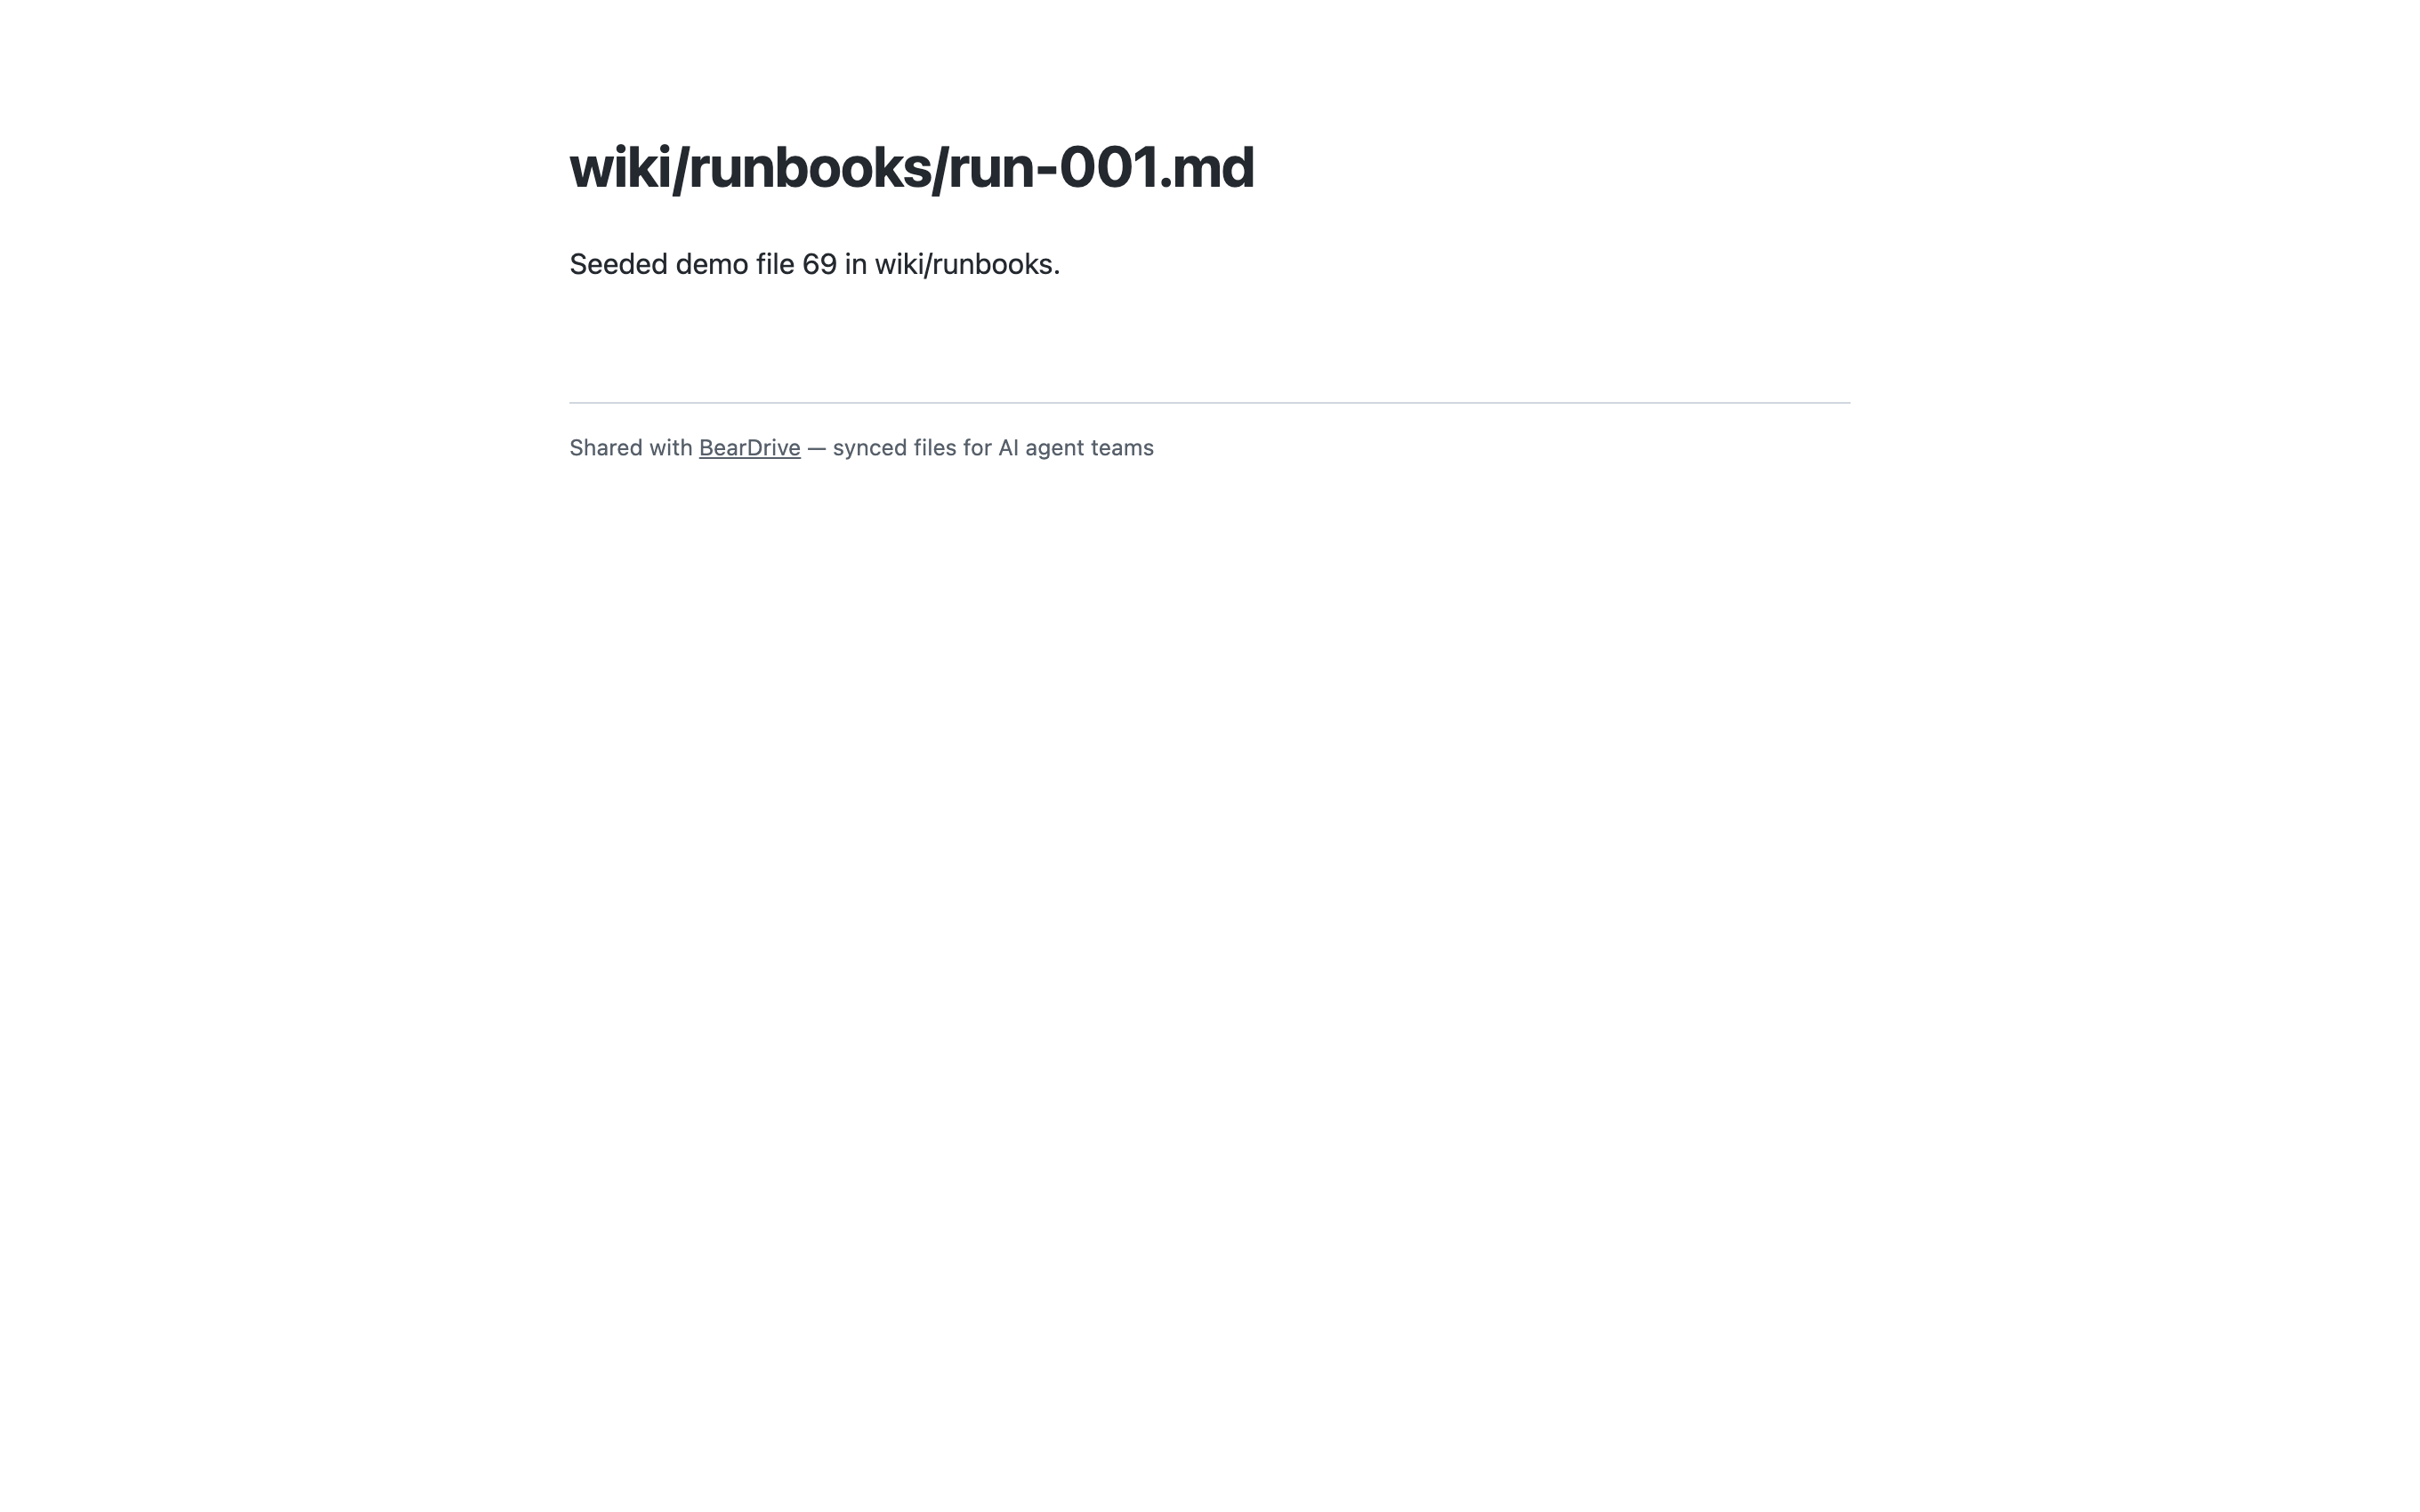
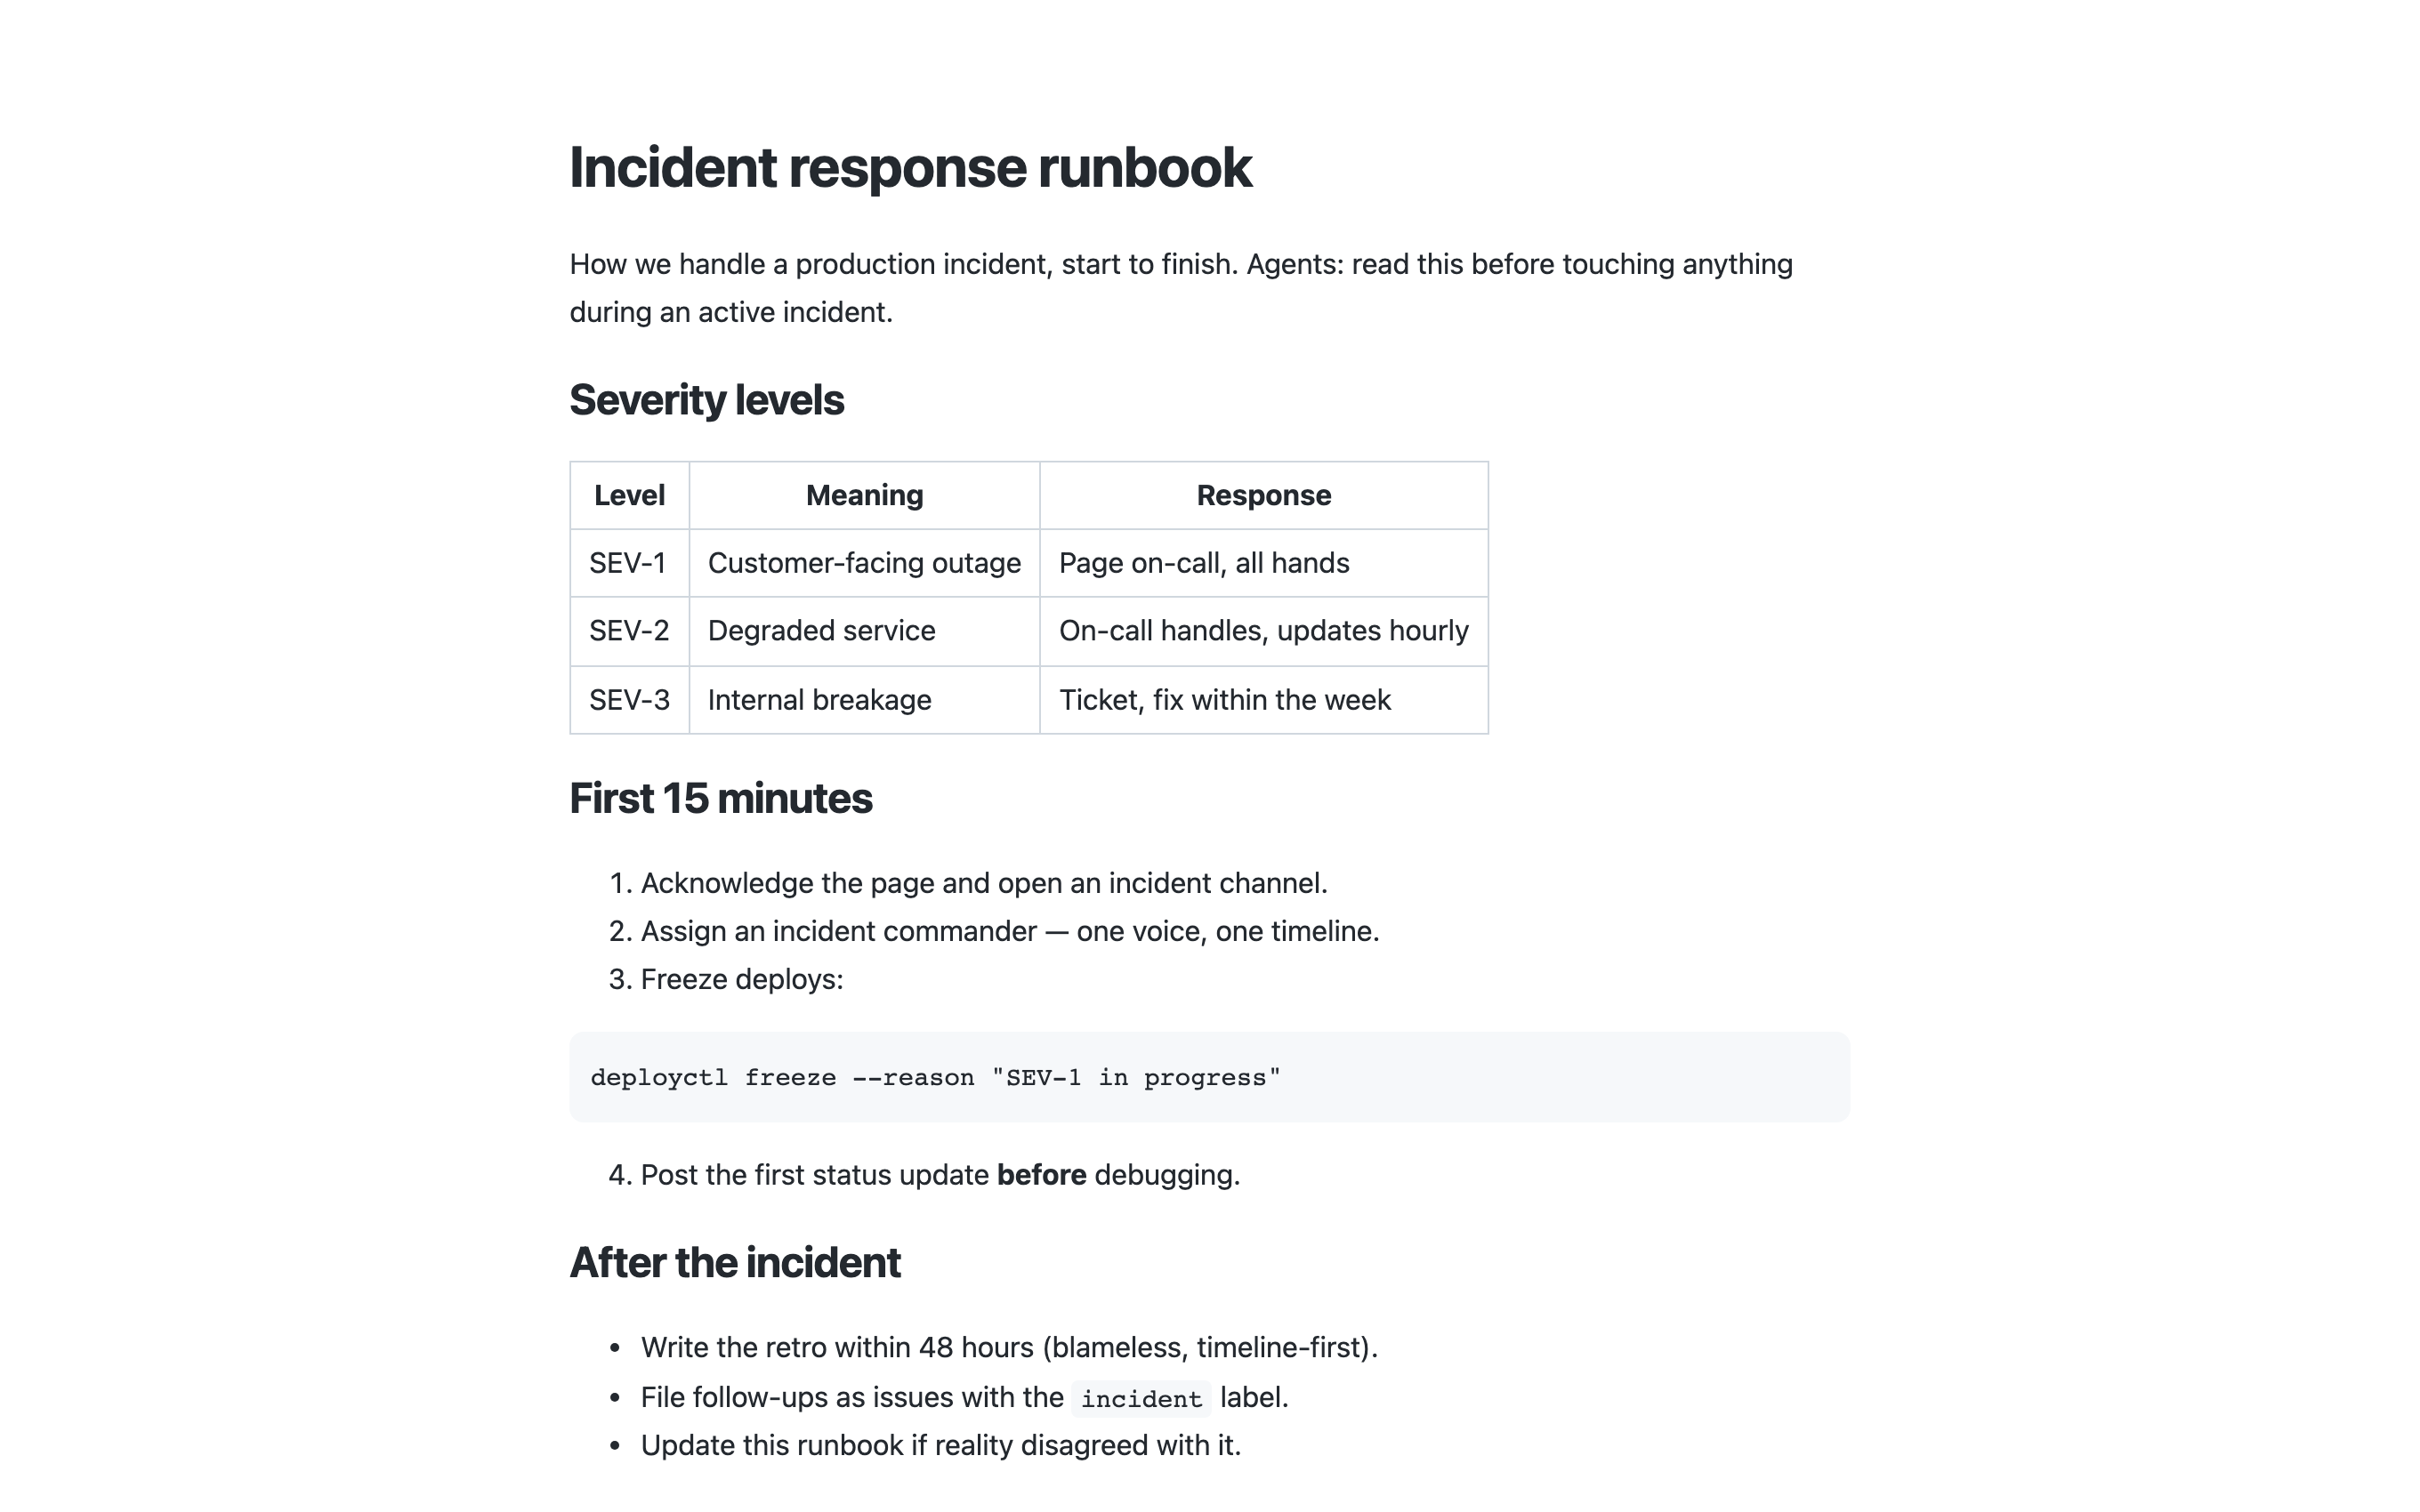
feat(gtm): round 2 — kill the last dead-deployment-mode copy, sharpen assets and checklists
Reviewer round 2 scored 8/7/9/8/8/8 with one repo-fixable major left:
three deeper website spots (storage strip, architecture card, bring-
your-own-storage card) still implied a hub-less direct-to-bucket mode
that v0.3.0 removed — all rewritten to the hub-on-your-storage reality;
themes-preview.html's five retracted 'no server required' strings fixed.

Also: install-path verification added to the handoff P0 and the launch
prep checklist (a 404 brew tap on launch day is fatal); README
credentials table now says the s3/gs/file rows are hub-operator storage,
never client remotes; the agent promise now leads on both README and
website (people-sharing supports it); share.png re-captured against a
real rendered runbook (headings/table/code) instead of a one-line stub.

Claude-Session: https://claude.ai/code/session_01P5cxPQdSGJnjXCYY9GeWXt

diff --git a/website/index.html b/website/index.html
@@ -303,10 +303,10 @@ footer a:hover { color: var(--text); }
     </div>
   </div>
   <div class="strip">
-    <p>Works with the storage you already have</p>
+    <p>Your hub stores on the object storage you already have</p>
     <div class="names">
       <span>Amazon S3</span><span>Google Cloud Storage</span><span>Cloudflare R2</span>
-      <span>MinIO</span><span>any folder</span><span>— or a BearDrive hub</span>
+      <span>MinIO</span><span>any folder</span>
     </div>
   </div>
 </header>
@@ -335,8 +335,8 @@ footer a:hover { color: var(--text); }
         version, no account needed, revocable any time.</p>
       </div>
       <div class="card wide">
-        <div class="arch"><b>your folder</b>  ←scan/materialize→  <b>local volume</b>  ←push/pull→  <span class="a">object storage or a BearDrive hub</span>
-<span class="dim">real files                per-device journals,      devices converge through dumb storage:
+        <div class="arch"><b>your folder</b>  ←scan/materialize→  <b>local volume</b>  ←push/pull→  <span class="a">a BearDrive hub (on S3 / GCS / R2 / a folder)</span>
+<span class="dim">real files                per-device journals,      devices converge through the hub's dumb storage:
 every tool works          content-addressed blobs    append-only, no locks, offline-safe</span></div>
       </div>
     </div>
@@ -348,19 +348,19 @@ every tool works          content-addressed blobs    append-only, no locks, offl
     <p class="kicker">WHY BEARDRIVE</p>
     <h2>Two superpowers, one folder.</h2>
     <div class="grid" style="grid-template-columns:repeat(auto-fit,minmax(340px,1fr))">
-      <div class="card"><div class="ico">🧑🤝🧑</div>
-        <p style="font-size:15px"><b>Share files with people.</b> Anything in the folder is a
-        <code>bdrive share</code> away from being a public URL that renders as a page —
-        markdown, HTML, PDFs. No accounts for viewers, no "can you re-send that?",
-        always the latest version, revocable any time. Dropbox-link simplicity for
-        everything your team produces.</p>
-      </div>
       <div class="card"><div class="ico">🧠</div>
         <p style="font-size:15px"><b>Share context across agents.</b> The folder is shared
         memory. What your agent learns today — findings, plans, decisions, notes —
         is on your teammate's disk in seconds, so <b>their agent starts tomorrow's
         session already knowing it</b>. Context stops being siloed per laptop;
         every agent on the team reads from, and writes to, the same brain.</p>
+      </div>
+      <div class="card"><div class="ico">🧑🤝🧑</div>
+        <p style="font-size:15px"><b>Share files with people.</b> Anything in the folder is a
+        <code>bdrive share</code> away from being a public URL that renders as a page —
+        markdown, HTML, PDFs. No accounts for viewers, no "can you re-send that?",
+        always the latest version, revocable any time. Dropbox-link simplicity for
+        everything your team produces.</p>
       </div>
       <div class="card"><div class="ico">📊</div>
         <p style="font-size:15px"><b>See what your agents actually read.</b> Every change is
@@ -407,9 +407,10 @@ every tool works          content-addressed blobs    append-only, no locks, offl
         concurrent edits keep both versions as conflict copies.</p>
       </div>
       <div class="card"><div class="ico">🪣</div>
-        <p><b>Bring your own storage.</b> S3, GCS, R2, MinIO, or a plain shared
-        directory — BearDrive needs nothing but dumb object storage. Or sync
-        through a hub and devices never hold cloud credentials at all.</p>
+        <p><b>Bring your own storage.</b> Your hub is backed by S3, GCS, R2,
+        MinIO, or a plain shared directory — nothing but dumb object storage.
+        Clients sync through the hub over HTTPS and never hold cloud
+        credentials at all.</p>
       </div>
     </div>
   </div>

diff --git a/website/themes-preview.html b/website/themes-preview.html
@@ -75,7 +75,7 @@ h1 { text-align: center; font-size: 22px; margin: 0 0 6px; }
     <div class="mini">
       <div class="pill"><span class="dot">Open source</span> AGPL-3.0 · on Homebrew</div>
       <h2>A shared drive for your AI agents.<span class="g">Synced in seconds. Tracked forever.</span></h2>
-      <p>Real files. No server required.</p>
+      <p>Real files. Self-hostable in one binary.</p>
       <div class="row"><button class="btn">Start syncing</button><button class="btn ghost">GitHub</button></div>
       <div class="term"><span class="p">$</span> bdrive share wiki/q3-report.html
 <span class="url">https://beardrive.ai/s/1aad3327…</span>
@@ -92,7 +92,7 @@ h1 { text-align: center; font-size: 22px; margin: 0 0 6px; }
     <div class="mini">
       <div class="pill"><span class="dot">Open source</span> AGPL-3.0 · on Homebrew</div>
       <h2>A shared drive for your AI agents.<span class="g">Synced in seconds. Tracked forever.</span></h2>
-      <p>Real files. No server required.</p>
+      <p>Real files. Self-hostable in one binary.</p>
       <div class="row"><button class="btn">Start syncing</button><button class="btn ghost">GitHub</button></div>
       <div class="term"><span class="p">$</span> bdrive share wiki/q3-report.html
 <span class="url">https://beardrive.ai/s/1aad3327…</span>
@@ -109,7 +109,7 @@ h1 { text-align: center; font-size: 22px; margin: 0 0 6px; }
     <div class="mini">
       <div class="pill"><span class="dot">Open source</span> AGPL-3.0 · on Homebrew</div>
       <h2>A shared drive for your AI agents.<span class="g">Synced in seconds. Tracked forever.</span></h2>
-      <p>Real files. No server required.</p>
+      <p>Real files. Self-hostable in one binary.</p>
       <div class="row"><button class="btn">Start syncing</button><button class="btn ghost">GitHub</button></div>
       <div class="term"><span class="p">$</span> bdrive share wiki/q3-report.html
 <span class="url">https://beardrive.ai/s/1aad3327…</span>
@@ -126,7 +126,7 @@ h1 { text-align: center; font-size: 22px; margin: 0 0 6px; }
     <div class="mini">
       <div class="pill"><span class="dot">Open source</span> AGPL-3.0 · on Homebrew</div>
       <h2>A shared drive for your AI agents.<span class="g">Synced in seconds. Tracked forever.</span></h2>
-      <p>Real files. No server required.</p>
+      <p>Real files. Self-hostable in one binary.</p>
       <div class="row"><button class="btn">Start syncing</button><button class="btn ghost">GitHub</button></div>
       <div class="term"><span class="p">$</span> bdrive share wiki/q3-report.html
 <span class="url">https://beardrive.ai/s/1aad3327…</span>
@@ -143,7 +143,7 @@ h1 { text-align: center; font-size: 22px; margin: 0 0 6px; }
     <div class="mini">
       <div class="pill"><span class="dot">Open source</span> AGPL-3.0 · on Homebrew</div>
       <h2>A shared drive for your AI agents.<span class="g">Synced in seconds. Tracked forever.</span></h2>
-      <p>Real files. No server required.</p>
+      <p>Real files. Self-hostable in one binary.</p>
       <div class="row"><button class="btn">Start syncing</button><button class="btn ghost">GitHub</button></div>
       <div class="term"><span class="p">$</span> bdrive share wiki/q3-report.html
 <span class="url">https://beardrive.ai/s/1aad3327…</span>

diff --git a/docs/gtm-handoff.md b/docs/gtm-handoff.md
@@ -20,9 +20,15 @@ Draft copy is ready to paste; adjust voice as you like.
    > attributed, with read analytics. Self-host in one Go binary.
    Website field: `https://beardrive.ai`.
 
+5. **Verify the install path from a clean machine** (the #1 CTA must
+   not 404 on launch day): `brew install runbear-io/tap/beardrive &&
+   bdrive version`, and `go install
+   github.com/runbear-io/beardrive/cmd/bdrive@latest`. If the tap is
+   stale, cut a fresh `goreleaser release` first.
+
 ## P1 — demo assets (an hour)
 
-5. **Record a 45–60s demo GIF/video** for the README hero and any
+6. **Record a 45–60s demo GIF/video** for the README hero and any
    launch post. Script (uses two terminals + a browser):
    - T1: `bdrive init --name demo --yes` in a folder with a few notes →
      show `bdrive status` (daemon running).
@@ -34,29 +40,29 @@ Draft copy is ready to paste; adjust voice as you like.
    - T1: `bdrive share wiki/findings.md` → open the public URL.
    Tools: `vhs` (charmbracelet) or QuickTime + gifski. Put the result at
    `docs/assets/demo.gif` and add it above the fold in README.
-6. **Verify beardrive.ai serves the updated landing page** (the repo's
+7. **Verify beardrive.ai serves the updated landing page** (the repo's
    `website/` — including the new `assets/insights.png`) after the next
    deploy.
 
 ## P2 — when you're ready to be seen (launch window)
 
-7. **Show HN post** — full drafts in [launch-plan.md](launch-plan.md):
+8. **Show HN post** — full drafts in [launch-plan.md](launch-plan.md):
    title, body, and the first-comment founder note. Post from your
    account; be present for the first 3 hours to answer everything.
-8. **Product Hunt** — drafts in launch-plan.md. Schedule after HN, not
+9. **Product Hunt** — drafts in launch-plan.md. Schedule after HN, not
    the same day.
-9. **Claude Code plugin discoverability** — submit/announce the
+10. **Claude Code plugin discoverability** — submit/announce the
    marketplace entry wherever Anthropic surfaces community plugins
    (Discord, awesome-lists PRs from your account).
 
 ## P3 — measurement plumbing (see metrics.md)
 
-10. **Turn on GitHub traffic watching**: stars/clones/views are under
+11. **Turn on GitHub traffic watching**: stars/clones/views are under
     Insights → Traffic; consider a weekly note of the numbers in
     Discussions → Announcements.
-11. **Homebrew install counts**: `brew info --analytics
+12. **Homebrew install counts**: `brew info --analytics
     runbear-io/tap/beardrive` (public analytics take ~30 days to
     appear).
-12. **Decide on hub-side opt-in telemetry** (proposal in metrics.md —
+13. **Decide on hub-side opt-in telemetry** (proposal in metrics.md —
     requires your explicit approval before any implementation; nothing
     is wired today).

diff --git a/README.md b/README.md
@@ -7,10 +7,10 @@ everything keeps working offline. The CLI is `bdrive`; a hub is a
 `bdrive web` server you (or we) run on an object store — clients sync
 through it over HTTPS and never touch the storage directly.
 
-Two things it's for: **sharing files with people** — any synced file
-becomes a public URL that renders as a page — and **sharing context across
-AI agents**: give every agent on the team the same folder as memory, and
-your agent knows what their agent knows. Notes, plans, findings, and
+What it's for, first and foremost: **sharing context across AI agents** —
+give every agent on the team the same folder as memory, and your agent
+knows what their agent knows. (People are covered too: any synced file
+becomes a public URL that renders as a page.) Notes, plans, findings, and
 artifacts follow the team everywhere — and unlike a memory API, they stay
 **real files with provenance**: every change is attributed to the human,
 agent, and device that made it, and the hub's Insights show what your
@@ -113,7 +113,10 @@ exactly where it left off — zero re-scan, zero spurious changes.
 
 ### Credentials
 
-beardrive uses each provider's standard credential chain — nothing beardrive-specific:
+beardrive uses each provider's standard credential chain — nothing beardrive-specific.
+Note: **client devices always use an `https://` hub remote** — the
+`s3`/`gs`/`file` rows below are how the *hub operator* configures the
+hub's own storage, never something a syncing client points at directly:
 
 | Remote | Credentials |
 |---|---|

diff --git a/docs/launch-plan.md b/docs/launch-plan.md
@@ -37,7 +37,9 @@ Product Hunt → Launch-Week-style feature cadence as Cloud approaches.
 device appends to its own journal; replay is deterministic," + link to
 CLAUDE.md's invariants. Answer every comment for the first 3 hours.
 
-**Prep checklist:** demo GIF live in README (handoff #5), Discussions
+**Prep checklist:** install path verified from a clean machine
+(`brew install runbear-io/tap/beardrive && bdrive version` — a 404 tap on
+launch day is fatal), demo GIF live in README (handoff #6), Discussions
 enabled, `docs/self-hosting.md` linked from README, hub demo instance
 warm (expect self-host attempts within minutes).
 

diff --git a/docs/metrics.md b/docs/metrics.md
@@ -17,8 +17,8 @@ within a week. Everything else is upstream of it.
 
 | # | Metric | Source | Stage |
 |---|---|---|---|
-| 1 | README/landing views → GitHub stars | GitHub Insights → Traffic (handoff #10) | attention |
-| 2 | Installs: brew + `go install` | brew analytics (handoff #11); go proxy stats are noisy — treat as directional | acquisition |
+| 1 | README/landing views → GitHub stars | GitHub Insights → Traffic (handoff #11) | attention |
+| 2 | Installs: brew + `go install` | brew analytics (handoff #12); go proxy stats are noisy — treat as directional | acquisition |
 | 3 | Activation: `bdrive init` → first successful sync | today: anecdotal/self-reported; future: opt-in telemetry (below) | activation |
 | 4 | Team formation: project gains a 2nd member (invite redeemed) | hub data (self-hosted: invisible to us; beardrive.ai once live) | expansion |
 | 5 | Wedge proof: first agent read-telemetry event in a project | hub read ledger (same visibility caveat) | wedge |

diff --git a/docs/gtm-quality-prd.md b/docs/gtm-quality-prd.md
@@ -66,6 +66,7 @@ fabricated proof) — record such rejections under Won't-fix with reasons.
 | Round | positioning | funnel | open-paid | community | launch | metrics | repo-fixable blockers/majors |
 |---|---|---|---|---|---|---|---|
 | 1 (baseline) | 6 | 4 | 8 | 3 | 3 | 2 | 3 blockers, 3 majors (all fixed this round; screenshots captured from the live demo hub — real UI, not fabricated) |
+| 2 | 8 | 7 | 9 | 8 | 8 | 8 | 1 major (residual dead-deployment-mode copy ×3 on the site — fixed) + 4 minors fixed; share.png re-captured with real rendered content |
 
 ## Won't-fix / disputed
 